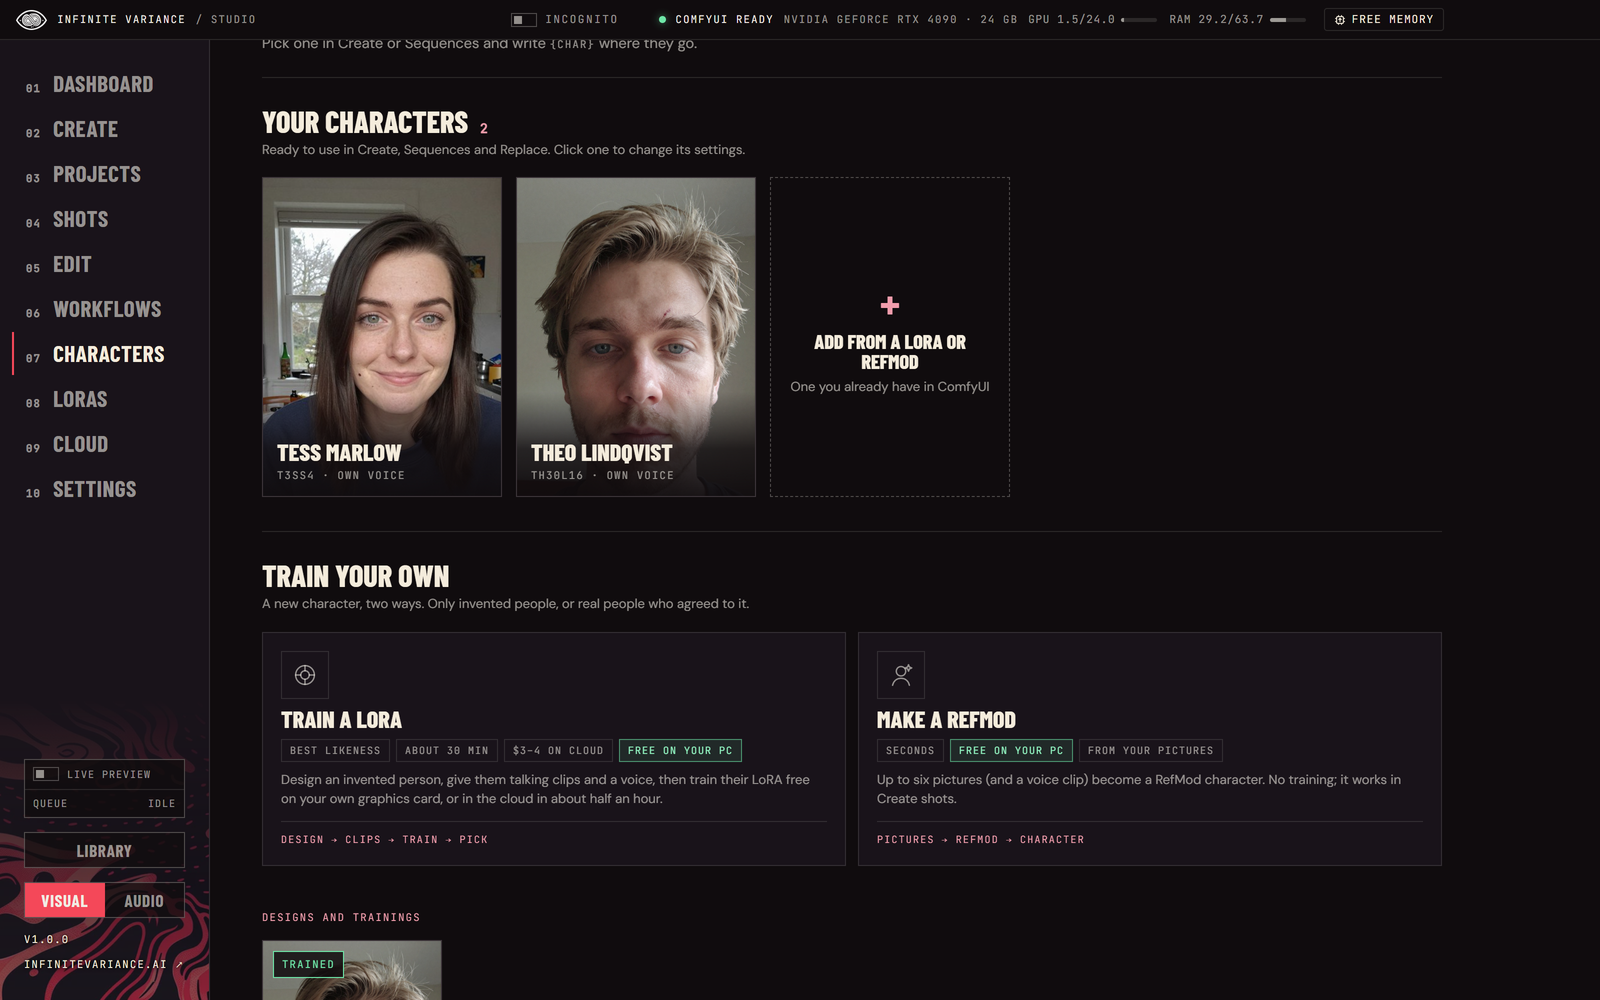
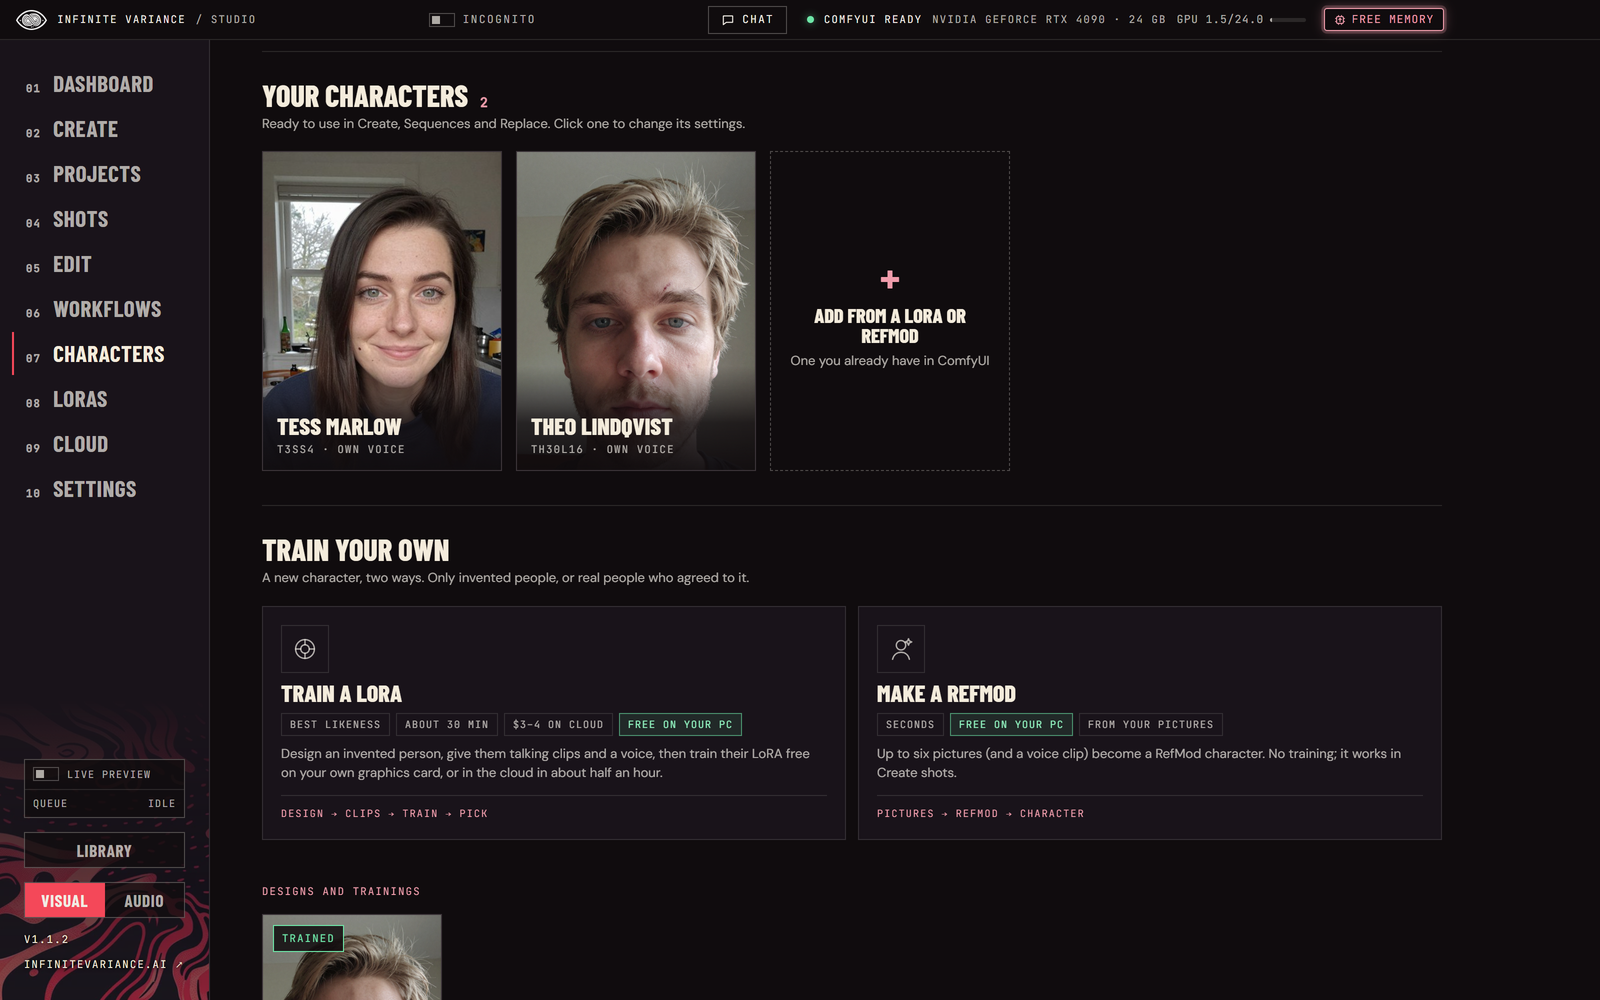
README: new screenshots for 1.1
Every README picture is retaken from the 1.1.2 build on showcase data
(1600x1000 from a 2x capture, test badge hidden, user folder shown as
"you"), and the banner reads 1.1. New pictures for 1.1: the chat,
Seedance 2.5 in Create, Effects, Compare and the Library's "How it was
made". Captions and alt text describe what is now on screen.

diff --git a/README.md b/README.md
@@ -38,7 +38,7 @@ IV Studio is **Powered by MiniMax H3**. Using H3 through it means agreeing to th
 H3 render. To report misuse, email [abuse@infinitevariance.ai](mailto:abuse@infinitevariance.ai).
 
 <p align="center">
-  <img src="docs/images/create.png" alt="Create: Tess picked, Write it for me with the idea, the H3 prompt, and the pinned Your shot card with Hunt 3 previews" width="100%">
+  <img src="docs/images/create.png" alt="Create: Tess's rainy bus-stop shot with its H3 prompt, the checker's note, the prompt tools and the pinned Your shot card" width="100%">
 </p>
 
 ## What's new in 1.1
@@ -79,6 +79,10 @@ H3 render. To report misuse, email [abuse@infinitevariance.ai](mailto:abuse@infi
   never deletes, installs or spends.
 - **Install them from IV Studio.** Check my PC asks whether you use Claude Code or Codex, and Settings → Agents
   can install either with its maker's own installer and open its sign-in.
+
+<p align="center">
+  <img src="docs/images/chat.png" alt="The chat beside the Dashboard: Claude Code answering which shots aren't finished yet, film by film, after looking them up with IV Studio's tools" width="100%">
+</p>
 
 ### Make more
 
@@ -124,6 +128,25 @@ H3 render. To report misuse, email [abuse@infinitevariance.ai](mailto:abuse@infi
   model; search finds words in prompts.
 - **An end card, if you want one.** The editor can add a "Made with IV Studio" end card to an export (Edit
   settings → End card), off unless you turn it on, and each export shape says where it fits.
+
+<table>
+  <tr>
+    <td width="50%"><img src="docs/images/seedance.png" alt="Create with Seedance 2.5 picked: the four kinds of shot, Tess as a face picture, and Hunt 2 takes priced at about $1.48"></td>
+    <td width="50%"><img src="docs/images/effects.png" alt="Effects on a clip in the editor: Dub, Clean plate, Day to night, Add water, SDR to HDR, Remove background and Smooth or slow motion"></td>
+  </tr>
+  <tr>
+    <td align="center"><sub>Seedance 2.5 beside MiniMax H3, priced before you hunt</sub></td>
+    <td align="center"><sub>Right-click a clip for Effects</sub></td>
+  </tr>
+  <tr>
+    <td width="50%"><img src="docs/images/compare.png" alt="Compare in Grid: three takes and the finished version of The apple, paused on the same frame"></td>
+    <td width="50%"><img src="docs/images/library-details.png" alt="The Library viewer: a take of Tess at the bus stop, with what's in it, model, size, length, character, seed, steps, render time, cost and the prompt"></td>
+  </tr>
+  <tr>
+    <td align="center"><sub>Compare up to four versions in sync</sub></td>
+    <td align="center"><sub>Every render says how it was made</sub></td>
+  </tr>
+</table>
 
 ### Catch problems sooner, finish anywhere
 
@@ -288,7 +311,7 @@ These ideas come from keys and Sam Wasserman's Imagination Studio (Apache-2.0); 
 
 <table>
   <tr>
-    <td width="50%"><img src="docs/images/dashboard.png" alt="Dashboard: what's new in 1.0, quick-start cards and recent renders"></td>
+    <td width="50%"><img src="docs/images/dashboard.png" alt="Dashboard: the What if? banner with Make it and Let Claude Code make it, quick-start cards and recent renders"></td>
     <td width="50%"><img src="docs/images/tour.png" alt="How it works: the Create tour lighting up What happens, with its card and Next"></td>
   </tr>
   <tr>
@@ -297,26 +320,26 @@ These ideas come from keys and Sam Wasserman's Imagination Studio (Apache-2.0); 
   </tr>
   <tr>
     <td width="50%"><img src="docs/images/welcome.png" alt="Check my PC: this PC can do everything, with the graphics card, memory, processor, free space and prompt writer rated"></td>
-    <td width="50%"><img src="docs/images/hunt.png" alt="A Dry Seat shot: two preview takes of Tess at a rainy bus stop, ready to pick, and the final below"></td>
+    <td width="50%"><img src="docs/images/hunt.png" alt="The apple: three preview takes of the farmer and his dog, each scored, with Review, Mark and Pick, and a review of take 1 below"></td>
   </tr>
   <tr>
     <td align="center"><sub>Check my PC sets IV Studio up for your computer</sub></td>
-    <td align="center"><sub>Hunt a few takes, pick one, finish it at full size</sub></td>
+    <td align="center"><sub>Hunt a few takes, review them, pick one and finish it</sub></td>
   </tr>
   <tr>
-    <td width="50%"><img src="docs/images/shots.png" alt="Shots: filters for status, when, kind, who and shape, and The Seed's shots under their day"></td>
-    <td width="50%"><img src="docs/images/projects.png" alt="Projects: seven short films as cards, filtered by where each one is"></td>
+    <td width="50%"><img src="docs/images/shots.png" alt="Shots: finished References shots under their day, with filters for status, when, kind, who and shape"></td>
+    <td width="50%"><img src="docs/images/projects.png" alt="Projects: short films under their day, filtered by where each one is"></td>
   </tr>
   <tr>
     <td align="center"><sub>Every shot, a day at a time, with filters</sub></td>
     <td align="center"><sub>A short film, step by step</sub></td>
   </tr>
   <tr>
-    <td width="50%"><img src="docs/images/image.png" alt="Create in Image mode: Generate or Edit, and eight image model families"></td>
-    <td width="50%"><img src="docs/images/staging-board.png" alt="The staging board on Create: Tess and a second person on a top-down floor, a wide lens and an arcing camera, and the staging words it writes"></td>
+    <td width="50%"><img src="docs/images/image.png" alt="Create in Image mode: Generate, Edit or Tools, and nine image model families"></td>
+    <td width="50%"><img src="docs/images/staging-board.png" alt="The staging board on Create: two people on a top-down floor, a wide lens and an arc left, and the staging words it writes"></td>
   </tr>
   <tr>
-    <td align="center"><sub>Pictures too: generate or edit on eight model families</sub></td>
+    <td align="center"><sub>Pictures too: generate, edit or fix on nine model families</sub></td>
     <td align="center"><sub>Stage the shot on a board; it becomes exact directions or a previs clip</sub></td>
   </tr>
   <tr>
@@ -328,11 +351,11 @@ These ideas come from keys and Sam Wasserman's Imagination Studio (Apache-2.0); 
     <td align="center"><sub>Train free on your PC, or rent a cloud GPU</sub></td>
   </tr>
   <tr>
-    <td width="50%"><img src="docs/images/loras.png" alt="LoRAs: a Civitai search for painting styles, shown as tall picture cards under the page's own banner"></td>
-    <td width="50%"><img src="docs/images/lora-details.png" alt="A LoRA's pop-up: its example clips, maker, trigger words, licence, file and tags"></td>
+    <td width="50%"><img src="docs/images/loras.png" alt="LoRAs: a model bar for every family, and a Civitai search for paint styles shown as tall picture cards"></td>
+    <td width="50%"><img src="docs/images/lora-details.png" alt="A LoRA's pop-up: Rough Sketch Nature's example clips, maker, trigger words, licence, file and tags"></td>
   </tr>
   <tr>
-    <td align="center"><sub>Find H3 LoRAs on Civitai</sub></td>
+    <td align="center"><sub>LoRAs for every model, found on Civitai</sub></td>
     <td align="center"><sub>Every LoRA's examples, trigger words and licence</sub></td>
   </tr>
   <tr>
@@ -344,7 +367,7 @@ These ideas come from keys and Sam Wasserman's Imagination Studio (Apache-2.0); 
     <td align="center"><sub>Songs and scores, made on your PC</sub></td>
   </tr>
   <tr>
-    <td width="50%"><img src="docs/images/edit.png" alt="Edit: project bin, source and program monitors, effect controls, and a timeline with filmstrips and titles"></td>
+    <td width="50%"><img src="docs/images/edit.png" alt="Edit: project bin, source and program monitors, effect controls with loudness and end card, and a timeline with filmstrips and a title"></td>
     <td width="50%"><img src="docs/images/library.png" alt="Library: everything you made with filters for when, where from, kind, who and shape"></td>
   </tr>
   <tr>
@@ -352,27 +375,27 @@ These ideas come from keys and Sam Wasserman's Imagination Studio (Apache-2.0); 
     <td align="center"><sub>Everything you've made, in one place</sub></td>
   </tr>
   <tr>
-    <td width="50%"><img src="docs/images/workflows.png" alt="Workflows: Sequences, Sizzle, Reel, Shinobi and Replace as cards with their own art"></td>
+    <td width="50%"><img src="docs/images/workflows.png" alt="Workflows: Sequences, Sizzle, Effects, Reel, Shinobi, Replace and Rebuild as cards with their own art"></td>
     <td width="50%"><img src="docs/images/sizzle.png" alt="Sizzle: a wall of flames behind the web address bar, centered on its stage"></td>
   </tr>
   <tr>
-    <td align="center"><sub>Five tools for after a render</sub></td>
+    <td align="center"><sub>Seven tools for after a render</sub></td>
     <td align="center"><sub>Sizzle: a website, made into a promo film</sub></td>
   </tr>
   <tr>
     <td width="50%"><img src="docs/images/reel.png" alt="Reel: beat bars and a drop bar for pictures and a song, then numbered steps and the Your reel card"></td>
-    <td width="50%"><img src="docs/images/cloud.png" alt="Cloud: render on this PC or the cloud, RunPod, Modal or Comfy Cloud, and the RunPod account step"></td>
+    <td width="50%"><img src="docs/images/cloud.png" alt="Cloud: render on this PC or the cloud, RunPod, Modal or Comfy Cloud, a guided setup, the RunPod account and the GPU choice"></td>
   </tr>
   <tr>
     <td align="center"><sub>Reel: pictures and a song, cut to the beat</sub></td>
     <td align="center"><sub>No big GPU? Render on your own cloud account</sub></td>
   </tr>
   <tr>
-    <td width="50%"><img src="docs/images/settings.png" alt="Settings: a section index and cards for the prompt writer, Civitai and agents"></td>
-    <td width="50%"><img src="docs/images/setup.png" alt="Settings → Setup: ComfyUI and the GPU ready, and every model checked"></td>
+    <td width="50%"><img src="docs/images/settings.png" alt="Settings: a section index, and Your PC with the four speed presets"></td>
+    <td width="50%"><img src="docs/images/setup.png" alt="Settings → Setup: a ready status card with Restart ComfyUI, and folding sections for models, node packs and optional tools"></td>
   </tr>
   <tr>
-    <td align="center"><sub>Settings, one card per topic</sub></td>
+    <td align="center"><sub>Settings, one card per topic, with speed presets</sub></td>
     <td align="center"><sub>Setup checks and downloads what ComfyUI needs</sub></td>
   </tr>
 </table>
@@ -482,7 +505,7 @@ its data folder, checks it, and swaps the program files in place, keeping the da
 1.1.1 or older needs the 1.1.2 zip unzipped over it once.
 
 <p align="center">
-  <img src="docs/images/setup.png" alt="Settings → Setup" width="100%">
+  <img src="docs/images/setup.png" alt="Settings → Setup: a ready status card with Restart ComfyUI, and folding sections for models, node packs and optional tools" width="100%">
 </p>
 
 ## Dashboard
